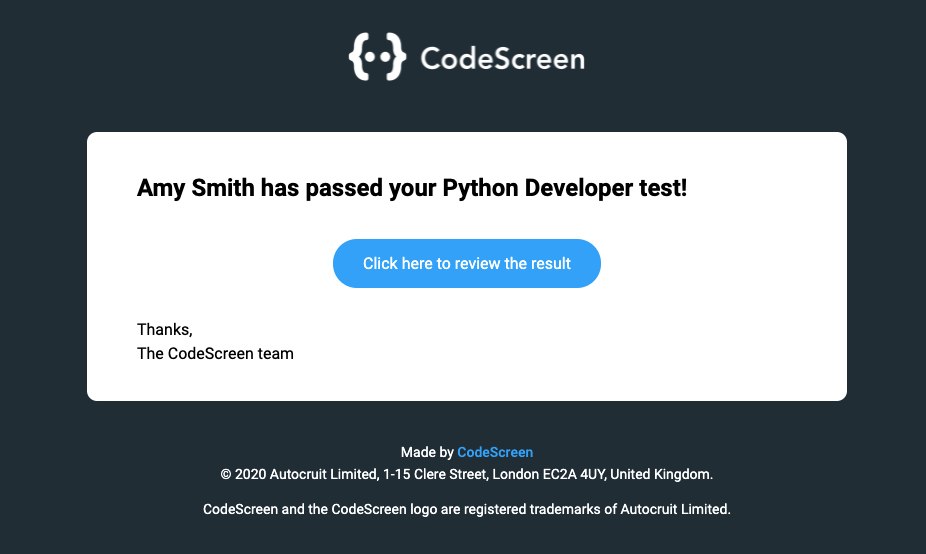
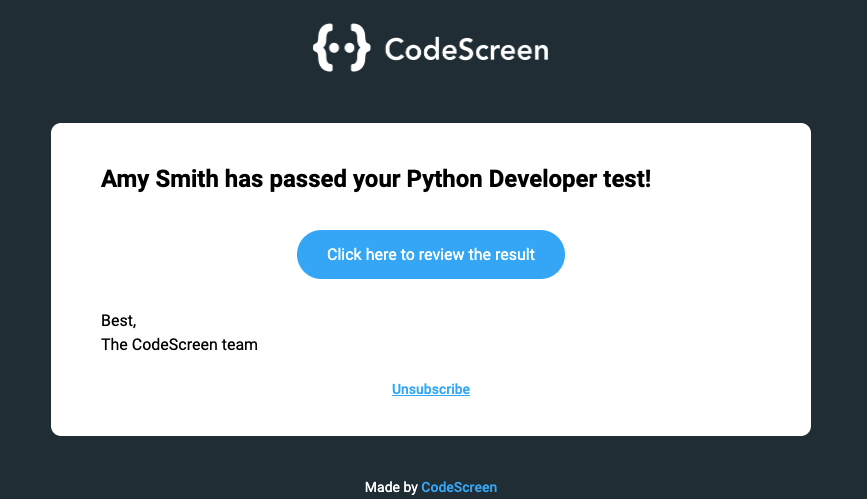
Updated notification prefs page

diff --git a/docs/notification-preferences.md b/docs/notification-preferences.md
@@ -1,7 +1,6 @@
 # Notification Preferences
 
-By default, once a candidate passes/fails one of your tests, or when a test expires, you will be notified by email and inside the
-notification inbox inside the CodeScreen application.
+By default, once a candidate passes/fails one of your tests, or when a test expires, you will be notified by email.
 
 <figure>
   <figcaption style="font-style: italic;">Email Notification:</figcaption>
@@ -11,30 +10,19 @@ notification inbox inside the CodeScreen application.
 
 <br>
 
-<figure>
-  <figcaption style="font-style: italic;">In-App Notification:</figcaption>
-  </br>
-  <img style="max-width: 80%;" src="inAppNotification.png" alt="Result"/>
-</figure>
-
-<br>
-
-You can stop receiving these notifications for a test by clicking into the test from the home screen, then click the
-`Review test` link in the top right of the screen, and then scroll down to the `Notification Preferences` section:
+If you want to stop receiving these notifications, click the `Unsubscribe` link at the bottom of each result
+notification email. You will then be brought to a screen that confirms that you have unsubscribed and will no longer
+receive these types of emails.
 
 <br>
 
 <figure>
-  <figcaption style="font-style: italic;">Notification Preferences:</figcaption>
+  <figcaption style="font-style: italic;">Unsubscribe:</figcaption>
   </br>
-  <img style="max-width: 50%;" src="notificationPrefs.png" alt="Result"/>
+  <img style="max-width: 60%;" src="unsubscribeConfirmation.png" alt="Result"/>
 </figure>
 
 <br>
-
-You can then untick the `Email` box if you want to stop receiving email notifications for this test and untick the 
-`In-App` box if you want to stop receiving in-app notifications for this test. Finally, click the `Save changes` button to
-save your new notification preferences.
 
 **Note** that the changes you make here only affect your user; the notification preferences for the other users in your
 account will not be affected.
